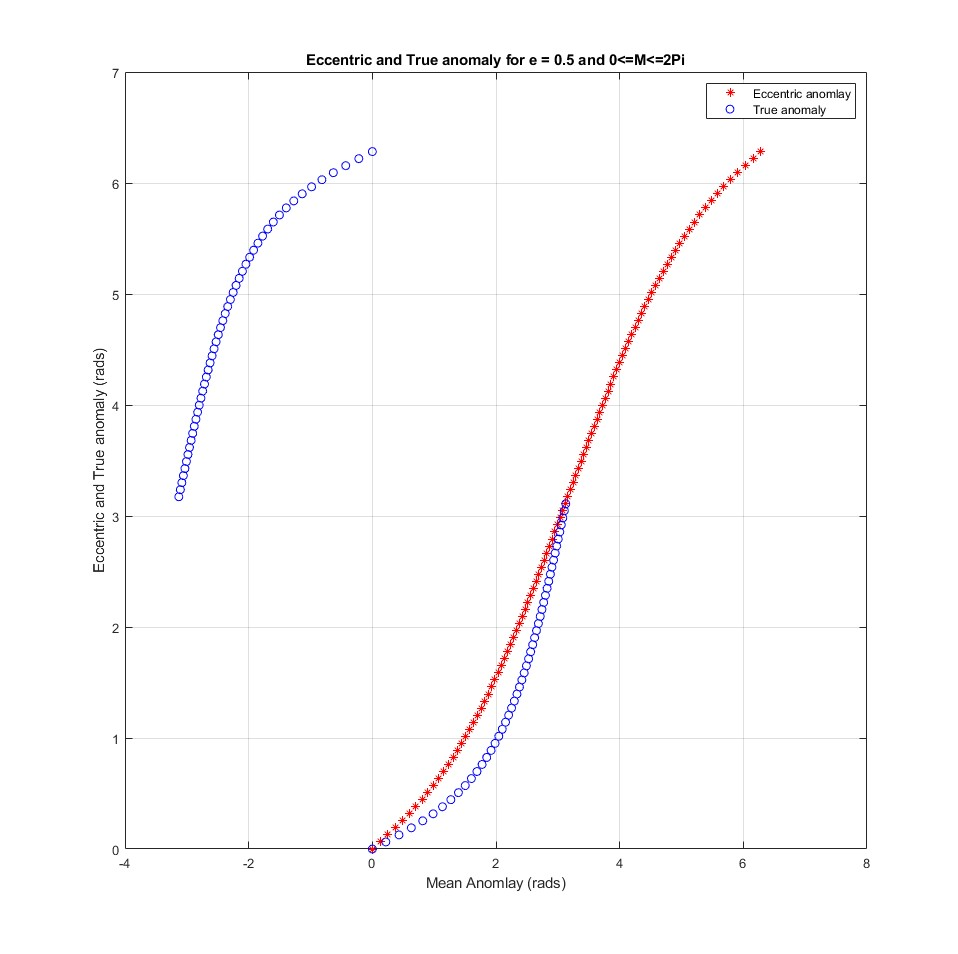
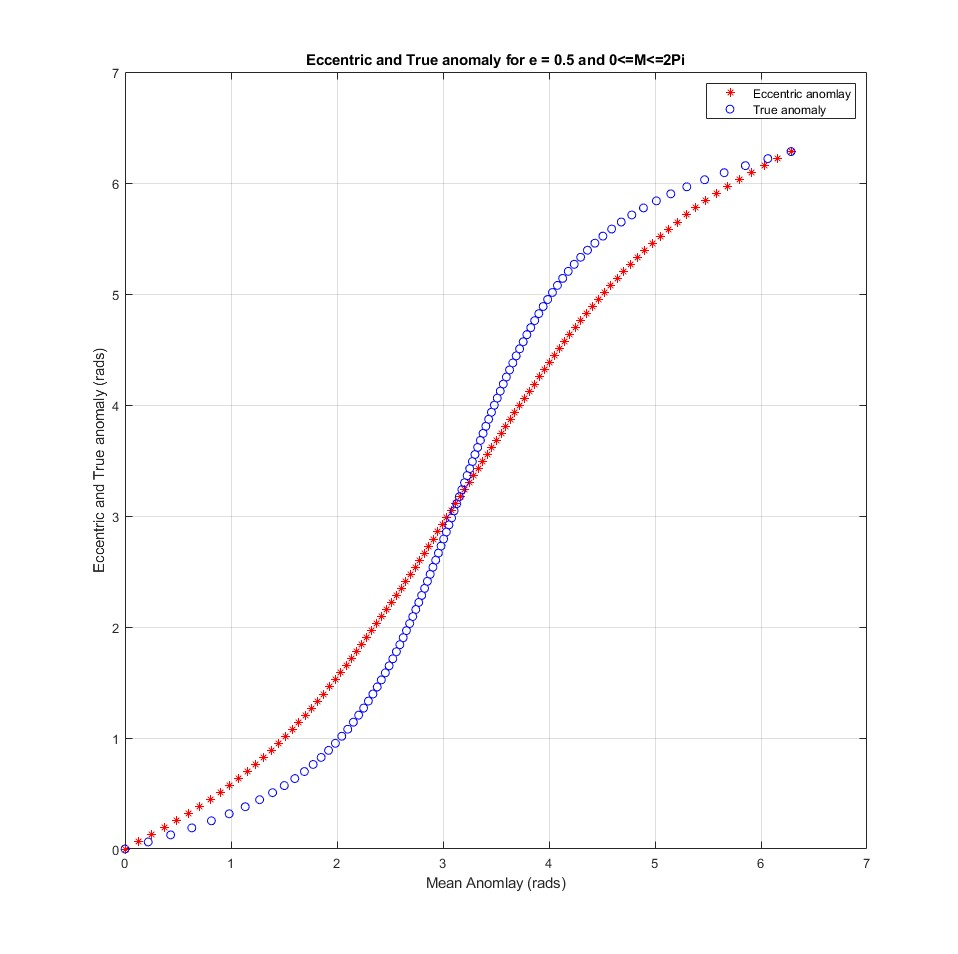
108 hw4

diff --git a/MAE_108/hw_4.m b/MAE_108/hw_4.m
@@ -1,0 +1,6 @@
+clear;clc;
+
+%% problem 2
+% A) Binomial distribution
+p_survive_a1 = binocdf(95,100,.9) - binocdf(83,100,0.9);
+p_survive_a2 = binocdf(85,100,.9);

diff --git a/MAE_180/hw2.m b/MAE_180/hw2.m
@@ -11,7 +11,6 @@ Ek = E1;
 count = 0;
 for c = 1:100
     Ek_plus = Ek - ((Ek - e*sin(Ek) - Mt)/(1-e*cos(Ek)));
-
     Ek = Ek_plus;
     count = count +1;
 end
